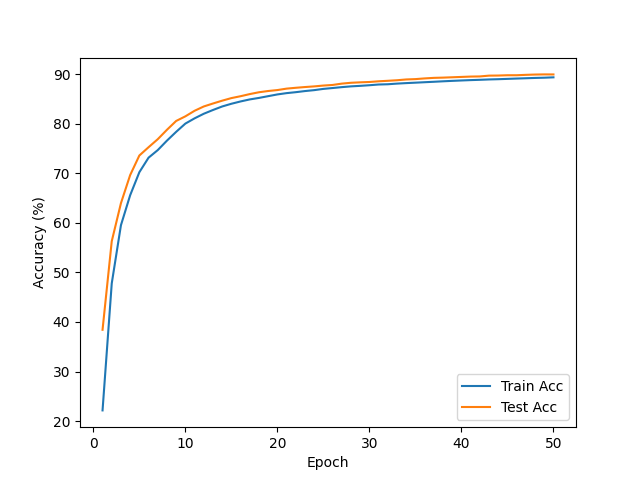
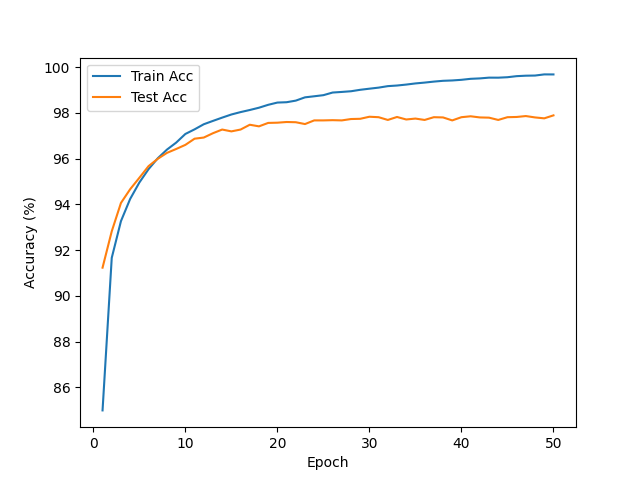
考察４

diff --git a/experiment/second_sem/machine_learning/03_pytorch/scripts/for_compare_epochs.py b/experiment/second_sem/machine_learning/03_pytorch/scripts/for_compare_epochs.py
@@ -32,7 +32,7 @@ def plot_losses(train_losses, test_losses, output_dir="../outputs"):
     plt.ylabel("Loss")
     plt.legend()
 
-    out_path = os.path.join(output_dir, "epochs=200_mnist_loss.png")
+    out_path = os.path.join(output_dir, "epochs=50_mnist_loss.png")
     plt.savefig(out_path)
     plt.close()
 
@@ -62,7 +62,7 @@ def plot_accuracy(train_accs, test_accs, output_dir="../outputs"):
     plt.ylabel("Accuracy (%)")
     plt.legend()
 
-    out_path = os.path.join(output_dir, "epochs=200_mnist_accuracy.png")
+    out_path = os.path.join(output_dir, "epochs=50_mnist_accuracy.png")
     plt.savefig(out_path)
     plt.close()
 
@@ -148,7 +148,7 @@ def main():
     """
 
     batch_size = 128
-    max_epochs = 200
+    max_epochs = 50
 
     train_loader, test_loader = load_mnist_dataloaders(
         batch_size=batch_size,
@@ -160,7 +160,7 @@ def main():
     criterion = nn.CrossEntropyLoss()# [TASK]
     
     # 学習率の設定
-    learning_rate = 0.001
+    learning_rate = 0.1
     
     # 最適化器の宣言
     optimizer = optim.SGD(model.parameters(), lr=learning_rate)# [TASK]
